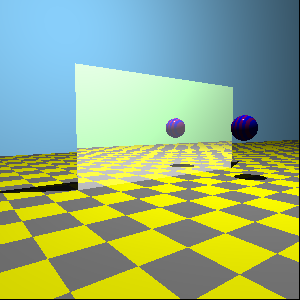
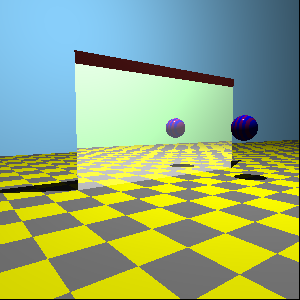
border

Changed region(s): [[0.24, 0.15, 0.78, 0.3], [0.06, 0.6, 0.27, 0.63], [0.0, 0.63, 0.03, 0.66]]

diff --git a/main.go b/main.go
@@ -540,6 +540,13 @@ func mirror() {
 	// cube1.Material().Color = tracer.ColorName(colornames.Black)
 	w.AddObject(cube1)
 
+	// top border
+	topBorder := tracer.NewUnitCube()
+	topBorder.SetTransform(
+		tracer.IdentityMatrix().Scale(0.001, .2, 4).Translate(-2, 4.2, 0))
+	topBorder.Material().Color = tracer.ColorName(colornames.Brown)
+	w.AddObject(topBorder)
+
 	// sphere1
 	sphere1 := tracer.NewUnitSphere()
 	sphere1.SetTransform(
